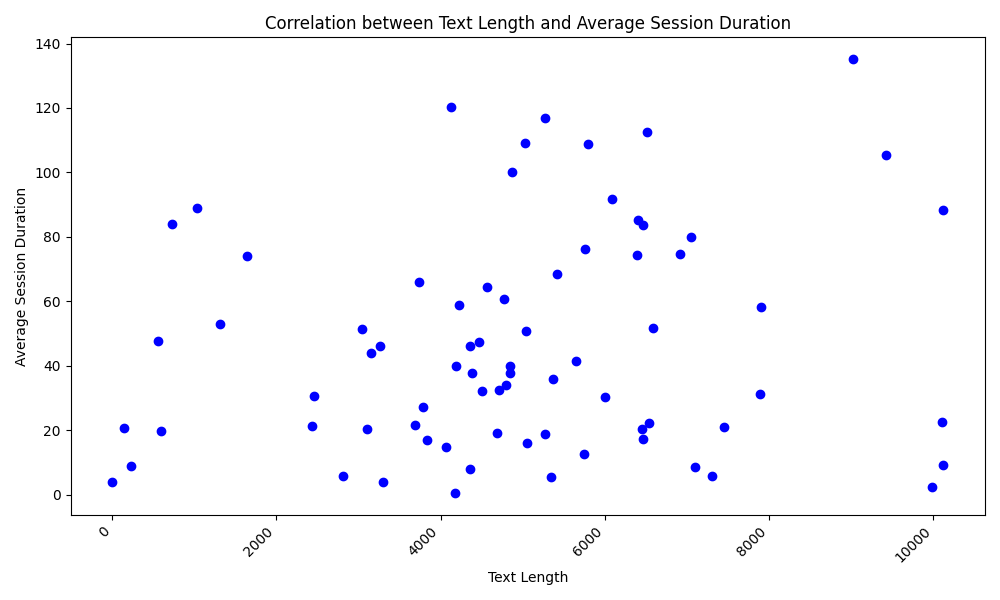
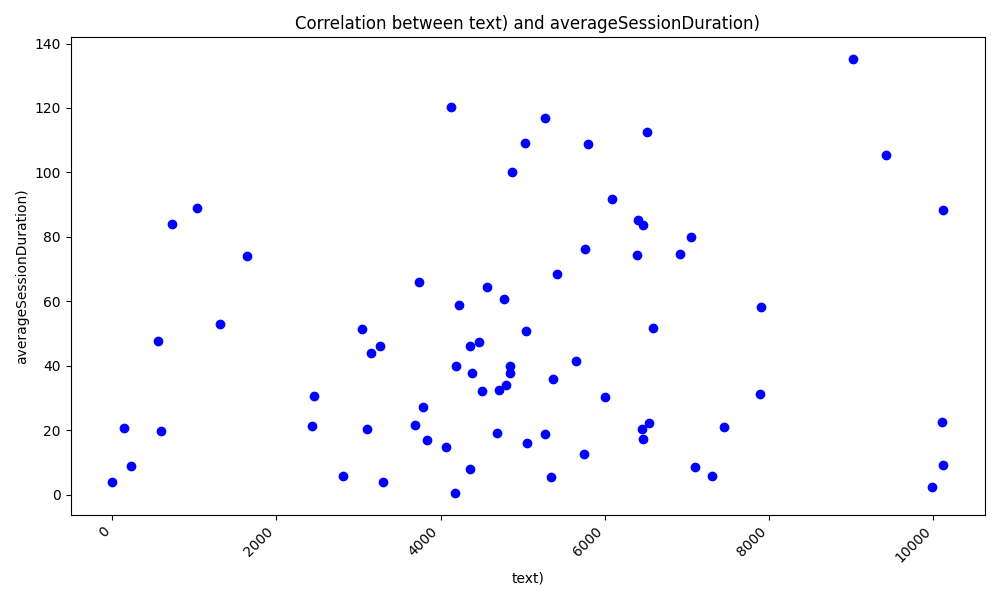
add func fetch

Changed region(s): [[0.248, 0.03, 0.806, 0.06], [0.0, 0.3, 0.031, 0.6], [0.496, 0.93, 0.558, 0.99]]

diff --git a/corre.py b/corre.py
@@ -1,49 +1,28 @@
-import mysql.connector  # MySQLデータベースに接続するためのモジュール
-from mysql.connector import Error  # MySQLエラーを処理するためのモジュール
-import pandas as pd  # データをDataFrameで処理するためのモジュール
 import matplotlib.pyplot as plt  # データの可視化のためのモジュール
+import pandas as pd
+from fetch import fetch_data  # fetch_data関数をインポート
+import re  # 正規表現モジュール
 
-from config import DB_CONFIG  # 別ファイルのデータベース設定をインポート
+# データベースクエリ
+query = """
+    SELECT ad.unifiedScreenClass,
+    LENGTH(p.text),
+    AVG(ad.averageSessionDuration)
+    FROM analytics_data ad
+    JOIN posts p ON ad.unifiedScreenClass LIKE CONCAT('%', p.title, '%')
+    WHERE ad.date BETWEEN '2024-05-29' AND '2024-06-28'
+    GROUP BY ad.unifiedScreenClass, p.text;
+"""
 
-# データベースからデータを取得する関数
-def fetch_data():
-    try:
-        # DB_CONFIGの設定を使ってデータベースに接続
-        connection = mysql.connector.connect(**DB_CONFIG)
-        
-        # 接続が成功したか確認
-        if connection.is_connected():
-            # データベース操作のためのカーソルを作成
-            cursor = connection.cursor(dictionary=True)
-            # データを選択および集計するSQLクエリ
-            query = """
-                SELECT ad.unifiedScreenClass,
-                       LENGTH(p.text) AS textLength,
-                       AVG(ad.averageSessionDuration) AS averageSessionDurationAverage
-                FROM analytics_data ad
-                JOIN posts p ON ad.unifiedScreenClass LIKE CONCAT('%', p.title, '%')
-                WHERE ad.date BETWEEN '2024-05-29' AND '2024-06-28'
-                GROUP BY ad.unifiedScreenClass, p.text;
-            """
-            # SQLクエリを実行
-            cursor.execute(query)
-            # 実行したクエリからすべての結果を取得
-            result = cursor.fetchall()
-
-            # 結果をpandas DataFrameに変換して返す
-            df = pd.DataFrame(result)
-            return df
-
-    # データベース操作中に発生するエラーを処理
-    except Error as e:
-        print(f"Error: {e}")
-        return None
-    
-    # 操作が完了した後にデータベース接続を閉じることを保証
-    finally:
-        if 'connection' in locals() and connection.is_connected():
-            cursor.close()  # カーソルを閉じる
-            connection.close()  # 接続を閉じる
+# クエリからカラム名を抽出する関数
+def extract_column_names(query):
+    pattern = re.compile(r'SELECT (.+?) FROM', re.IGNORECASE | re.DOTALL)
+    match = pattern.search(query)
+    if match:
+        columns = match.group(1).split(',')
+        columns = [col.split(' AS ')[-1].strip() if ' AS ' in col else col.split('.')[-1].strip() for col in columns]
+        return columns
+    return []
 
 # 外れ値を削除する関数
 def remove_outliers(df, column):
@@ -55,33 +34,45 @@ def remove_outliers(df, column):
     return df[(df[column] >= lower_bound) & (df[column] <= upper_bound)]
 
 # データを取得
-df = fetch_data()
+df = fetch_data(query)
+
+# クエリからカラム名を抽出
+columns = extract_column_names(query)
+x_label = columns[1]  # LENGTH(p.text)
+y_label = columns[2]  # AVG(ad.averageSessionDuration)
 
 if df is not None:
     # DataFrameの内容を表示
     print("Original DataFrame:")
     print(df)
 
+    # カラム名を変える
+    df.columns = columns
+
+    # 数値型に変換
+    df[x_label] = pd.to_numeric(df[x_label], errors='coerce')
+    df[y_label] = pd.to_numeric(df[y_label], errors='coerce')
+
     # 外れ値を削除
-    df = remove_outliers(df, 'textLength')
-    df = remove_outliers(df, 'averageSessionDurationAverage')
+    df = remove_outliers(df, x_label)
+    df = remove_outliers(df, y_label)
 
     # 外れ値削除後のDataFrameを表示
     print("DataFrame after removing outliers:")
     print(df)
 
-    # textLengthとaverageSessionDurationAverageを散布図で可視化
+    # 散布図を作成
     fig, ax = plt.subplots(figsize=(10, 6))
-    ax.scatter(df['textLength'], df['averageSessionDurationAverage'], color='blue')
-    ax.set_xlabel('Text Length')
-    ax.set_ylabel('Average Session Duration')
-    ax.set_title('Correlation between Text Length and Average Session Duration')
+    ax.scatter(df[x_label], df[y_label], color='blue')
+    ax.set_xlabel(x_label)
+    ax.set_ylabel(y_label)
+    ax.set_title(f'Correlation between {x_label} and {y_label}')
     plt.xticks(rotation=45, ha='right')
     plt.tight_layout()
     plt.savefig('scatter_plot.png')  # 画像ファイルとして保存
     print("Scatter plot saved as scatter_plot.png")
 
     # 相関係数を計算して表示
-    correlation = df[['textLength', 'averageSessionDurationAverage']].corr()
+    correlation = df[[x_label, y_label]].corr()
     print("Correlation Matrix:")
-    print(correlation[])
+    print(correlation)

diff --git a/fetch.py b/fetch.py
@@ -1,0 +1,35 @@
+# fetch.py
+import mysql.connector  # MySQLデータベースに接続するためのモジュール
+from mysql.connector import Error  # MySQLエラーを処理するためのモジュール
+import pandas as pd  # データをDataFrameで処理するためのモジュール
+from config import DB_CONFIG  # 別ファイルのデータベース設定をインポート
+
+# 任意のクエリを実行してデータを取得する関数
+def fetch_data(query):
+    try:
+        # DB_CONFIGの設定を使ってデータベースに接続
+        connection = mysql.connector.connect(**DB_CONFIG)
+        
+        # 接続が成功したか確認
+        if connection.is_connected():
+            # データベース操作のためのカーソルを作成
+            cursor = connection.cursor(dictionary=True)
+            # クエリを実行
+            cursor.execute(query)
+            # 実行したクエリからすべての結果を取得
+            result = cursor.fetchall()
+
+            # 結果をpandas DataFrameに変換して返す
+            df = pd.DataFrame(result)
+            return df
+
+    # データベース操作中に発生するエラーを処理
+    except Error as e:
+        print(f"Error: {e}")
+        return None
+    
+    # 操作が完了した後にデータベース接続を閉じることを保証
+    finally:
+        if 'connection' in locals() and connection.is_connected():
+            cursor.close()  # カーソルを閉じる
+            connection.close()  # 接続を閉じる
